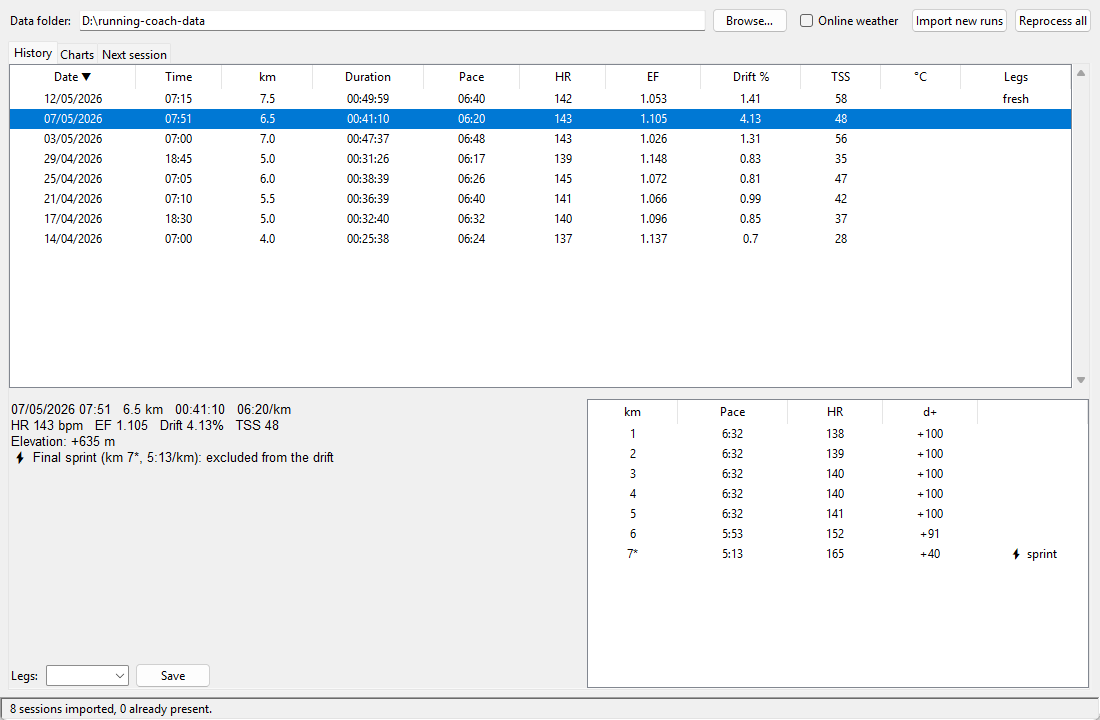
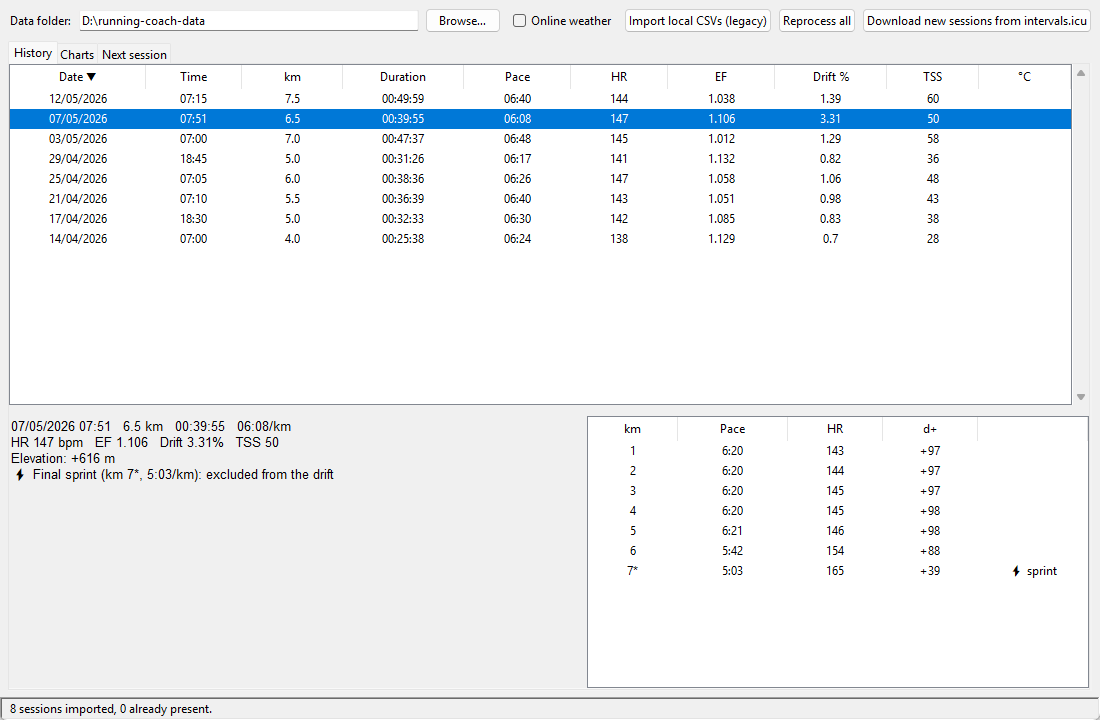
Rename the local import button and refresh the screenshots
"Import new runs" becomes "Import local CSVs (legacy)" now that the
intervals.icu download is the main way to get new sessions. Screenshots
retaken from the real GUI on synthetic runs (no Legs column, new button).

diff --git a/README.md b/README.md
@@ -31,7 +31,7 @@ it is remembered in `~/.running_coach_gui.json`), then:
   (running only, saved as `YYYY.MM.DD HH.MM-RUNNING.csv`) and then imports them. It needs your intervals.icu API key
   (Settings → Developer Settings): put it in `intervals_api_key.txt` next to the program (gitignored) or in the
   `INTERVALS_API_KEY` environment variable. From the command line: `py parse_run_csv.py --download [--since YYYY-MM-DD]`.
-- **Import new runs** analyses only the CSVs not yet in the history. **Reprocess all**
+- **Import local CSVs (legacy)** analyses only the CSVs already in the folder and not yet in the history (no download). **Reprocess all**
   recomputes every session (the weather already recorded is kept).
 - **History** lists all sessions; select one to see the per-km splits, sprint note and weather.
 - **Charts** plots distance, pace, heart rate, EF, drift or TSS over time with a 3-session moving average.
